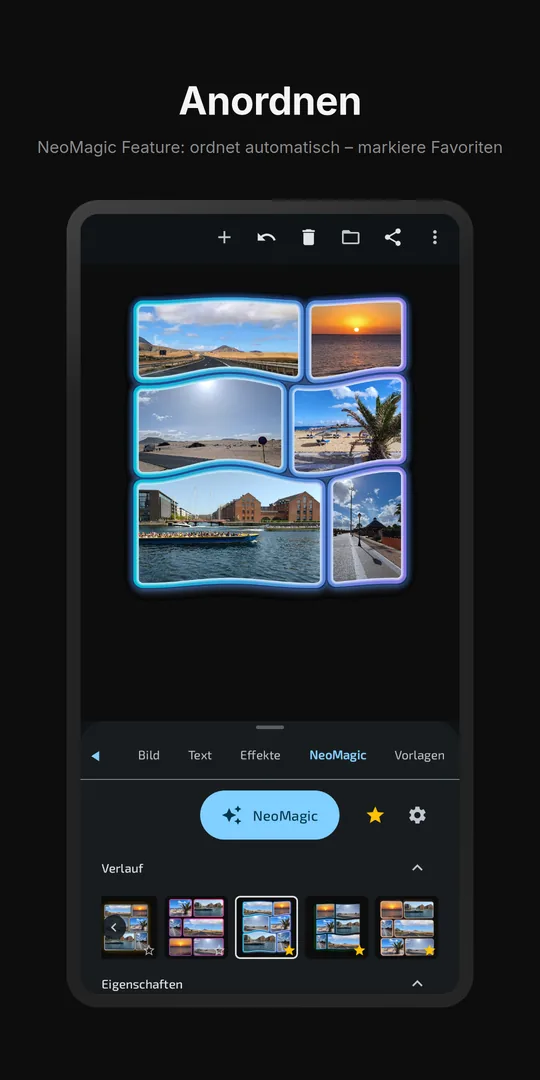
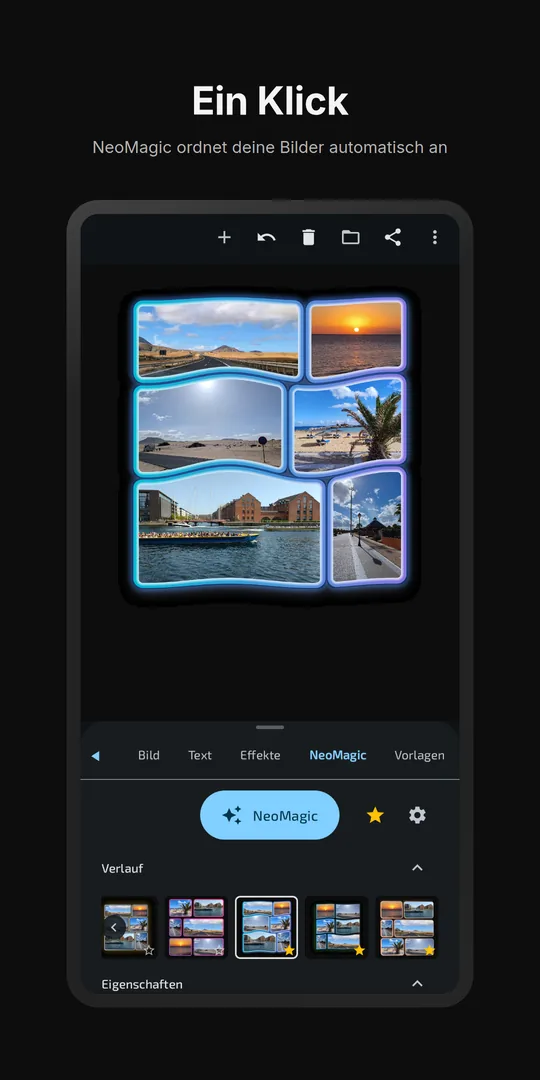
Karussell-Bilder auf den Stand des Store-Eintrags gebracht
Die Bilder vom 08.09. trugen noch die alten Überschriften („Anordnen ·
Effekte", „Arrange · Effects") und den dunkleren Untertitel. Der
Store-Eintrag von 1.5.0 zeigt seit dem 09.09. „Ein Klick · Dein Stil ·
Text · Vorlagen" bzw. „One Click · Your Style · Text · Presets", mit
aufgehelltem Untertitel (#B3B3B3) — Seite und Store liefen auseinander.

Alle 16 Dateien neu aus render/{de,en} erzeugt: 540×1080 fürs Karussell,
1080×2160 für den Viewer, WebP q82, Grund von #000000 auf #0d0d0d
gehoben. Zusammen 496 KB je Sprache.

Die alt-Texte nennen jetzt dieselben Titel und Untertitel wie die
Bilder; nebenbei fallen dort die britischen Schreibweisen weg, wie in
den App-Strings und im Store-Text am selben Tag.

Changed region(s): [[0.0593, 0.0611, 0.9185, 0.1528]]

diff --git a/index.html b/index.html
@@ -654,33 +654,33 @@
               <img src="assets/en/screenshot-1.webp"
                    data-en="assets/en/screenshot-1.webp"
                    data-de="assets/de/screenshot-1.webp"
-                   data-alt-en="Arrange – NeoMagic feature: arranges automatically, mark your favourites"
-                   data-alt-de="Anordnen – NeoMagic Feature: ordnet automatisch, markiere Favoriten"
-                   alt="Arrange – NeoMagic feature: arranges automatically, mark your favourites" />
+                   data-alt-en="One Click – NeoMagic arranges your photos automatically"
+                   data-alt-de="Ein Klick – NeoMagic ordnet deine Bilder automatisch an"
+                   alt="One Click – NeoMagic arranges your photos automatically" />
             </div>
             <div class="carousel-slide">
               <img src="assets/en/screenshot-2.webp"
                    data-en="assets/en/screenshot-2.webp"
                    data-de="assets/de/screenshot-2.webp"
-                   data-alt-en="Effects – adjust frame, colours and effects"
-                   data-alt-de="Effekte – passe Rahmen, Farben und Effekte an"
-                   alt="Effects – adjust frame, colours and effects" />
+                   data-alt-en="Your Style – adjust frames, colors and shadows"
+                   data-alt-de="Dein Stil – Rahmen, Farben und Schatten anpassen"
+                   alt="Your Style – adjust frames, colors and shadows" />
             </div>
             <div class="carousel-slide">
               <img src="assets/en/screenshot-3.webp"
                    data-en="assets/en/screenshot-3.webp"
                    data-de="assets/de/screenshot-3.webp"
-                   data-alt-en="Text – add and adjust text elements"
-                   data-alt-de="Text – Textelemente hinzufügen und anpassen"
-                   alt="Text – add and adjust text elements" />
+                   data-alt-en="Text – add text in different fonts"
+                   data-alt-de="Text – Füge Schrift hinzu"
+                   alt="Text – add text in different fonts" />
             </div>
             <div class="carousel-slide">
               <img src="assets/en/screenshot-4.webp"
                    data-en="assets/en/screenshot-4.webp"
                    data-de="assets/de/screenshot-4.webp"
-                   data-alt-en="Presets – save a style as a preset for next time"
-                   data-alt-de="Vorlagen – Style als Vorlage für nächstes Mal speichern"
-                   alt="Presets – save a style as a preset for next time" />
+                   data-alt-en="Presets – save your style for later"
+                   data-alt-de="Vorlagen – Speichere deinen Stil für später"
+                   alt="Presets – save your style for later" />
             </div>
           </div>
           <button class="carousel-btn prev" id="carousel-prev" aria-label="Previous">&#8249;</button>
